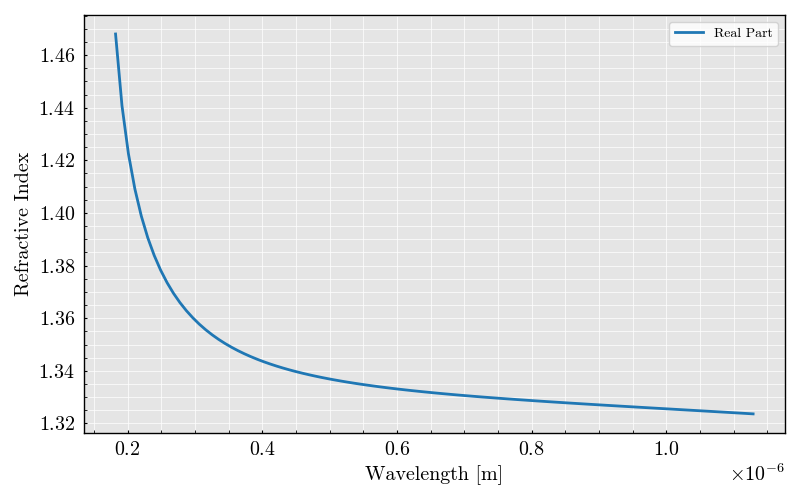
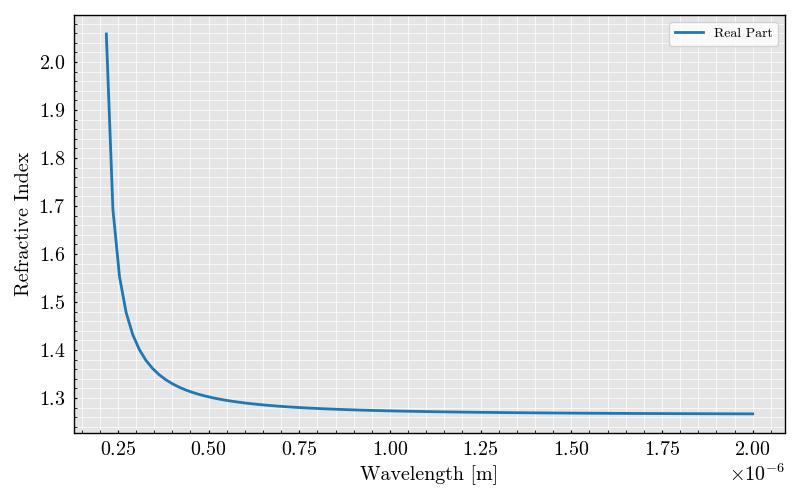
update docs to use gh-actions

diff --git a/docs/source/gallery/create_tabulated_file.py b/docs/source/gallery/create_tabulated_file.py
@@ -22,7 +22,7 @@ tabulated_data = [
 # Define the file properties
 filename = 'example_tabulated'
 reference = "Example Reference for Tabulated Data"
-comments = "This file contains sample tabulated data for demonstration purposes."
+comments = "This file contains sample tabulated data for demonstration purposes. "
 
 # Call the function to create the file
 create_tabulated_file(
@@ -34,6 +34,6 @@ create_tabulated_file(
 
 print(f"Tabulated YAML file {filename}.yml has been created in {tabulated_data_path}")
 
-m = TabulatedMaterial('example_tabulated')
+m = TabulatedMaterial(filename)
 
 m.plot()

diff --git a/docs/source/gallery/create_sellmeier_file.py b/docs/source/gallery/create_sellmeier_file.py
@@ -22,11 +22,11 @@ create_sellmeier_file(
     formula_type=formula_type,
     wavelength_range=(0.2, 2.0),
     reference="Sample Reference",
-    comments="This is a sample Sellmeier file created for demonstration purposes."
+    comments="This is a sample Sellmeier file created for demonstration purposes. "
 )
 
 print(f"Sellmeier YAML file {filename}.yml has been created in {sellmeier_data_path}")
 
-m = SellmeierMaterial('example_download')
+m = SellmeierMaterial(filename)
 
 m.plot()

diff --git a/docs/source/gallery/plot_silica.py b/docs/source/gallery/plot_silica.py
@@ -7,10 +7,10 @@ This module demonstrates the usage of the PyOptik library to calculate and plot 
 """
 
 import numpy
-from PyOptik import UsualMaterial
+from PyOptik import Material
 
 # Initialize the material with the Sellmeier model
-material = UsualMaterial.fused_silica
+material = Material.fused_silica
 
 # Calculate refractive index at specific wavelengths
 RI = material.compute_refractive_index(wavelength=[1310e-9, 1550e-9])

diff --git a/docs/source/gallery/plot_bk7.py b/docs/source/gallery/plot_bk7.py
@@ -7,10 +7,10 @@ This module demonstrates the usage of the PyOptik library to calculate and plot 
 """
 
 import numpy
-from PyOptik import UsualMaterial
+from PyOptik import Material
 
 # Initialize the material with the Sellmeier model
-material = UsualMaterial.get('BK7')
+material = Material.BK7
 
 # Calculate refractive index at specific wavelengths
 RI = material.compute_refractive_index(wavelength=[1310e-9, 1550e-9])

diff --git a/docs/source/gallery/plot_sf5.py b/docs/source/gallery/plot_sf5.py
@@ -7,10 +7,10 @@ This module demonstrates the usage of the PyOptik library to calculate and plot 
 """
 
 import numpy
-from PyOptik import UsualMaterial
+from PyOptik import Material
 
 # Initialize the material with the Sellmeier model
-material = UsualMaterial.get('SF5')
+material = Material.SF5
 
 # Calculate refractive index at specific wavelengths
 RI = material.compute_refractive_index(wavelength=[1310e-9, 1550e-9])

diff --git a/docs/source/gallery/plot_silver.py b/docs/source/gallery/plot_silver.py
@@ -7,10 +7,10 @@ This module demonstrates the usage of the PyOptik library to calculate and plot 
 """
 
 import numpy
-from PyOptik import UsualMaterial
+from PyOptik import Material
 
 # Initialize the material with the Sellmeier model
-material = UsualMaterial.silver
+material = Material.silver
 
 # Calculate refractive index at specific wavelengths
 RI = material.compute_refractive_index(wavelength=[1310e-9, 1550e-9])

diff --git a/docs/source/gallery/plot_water.py b/docs/source/gallery/plot_water.py
@@ -7,10 +7,10 @@ This module demonstrates the usage of the PyOptik library to calculate and plot 
 """
 
 import numpy
-from PyOptik import UsualMaterial
+from PyOptik import Material
 
 # Initialize the material with the Sellmeier model
-material = UsualMaterial.water
+material = Material.water
 
 # Calculate refractive index at specific wavelengths
 RI = material.compute_refractive_index(wavelength=[800e-9, 900e-9])

diff --git a/docs/source/gallery/sg_execution_times.rst b/docs/source/gallery/sg_execution_times.rst
@@ -6,22 +6,22 @@
 
 Computation times
 =================
-**00:01.790** total execution time for **gallery** files:
+**00:00.849** total execution time for **gallery** files:
 
 +---------------------------------------------------------------------------------+-----------+--------+
-| :ref:`sphx_glr_gallery_download_yml_file.py` (``download_yml_file.py``)         | 00:00.867 | 0.0 MB |
+| :ref:`sphx_glr_gallery_create_sellmeier_file.py` (``create_sellmeier_file.py``) | 00:00.165 | 0.0 MB |
 +---------------------------------------------------------------------------------+-----------+--------+
-| :ref:`sphx_glr_gallery_plot_silver.py` (``plot_silver.py``)                     | 00:00.157 | 0.0 MB |
+| :ref:`sphx_glr_gallery_plot_silver.py` (``plot_silver.py``)                     | 00:00.142 | 0.0 MB |
 +---------------------------------------------------------------------------------+-----------+--------+
-| :ref:`sphx_glr_gallery_create_sellmeier_file.py` (``create_sellmeier_file.py``) | 00:00.146 | 0.0 MB |
+| :ref:`sphx_glr_gallery_create_tabulated_file.py` (``create_tabulated_file.py``) | 00:00.134 | 0.0 MB |
 +---------------------------------------------------------------------------------+-----------+--------+
-| :ref:`sphx_glr_gallery_create_tabulated_file.py` (``create_tabulated_file.py``) | 00:00.135 | 0.0 MB |
+| :ref:`sphx_glr_gallery_plot_water.py` (``plot_water.py``)                       | 00:00.114 | 0.0 MB |
 +---------------------------------------------------------------------------------+-----------+--------+
-| :ref:`sphx_glr_gallery_plot_water.py` (``plot_water.py``)                       | 00:00.131 | 0.0 MB |
+| :ref:`sphx_glr_gallery_plot_sf5.py` (``plot_sf5.py``)                           | 00:00.105 | 0.0 MB |
 +---------------------------------------------------------------------------------+-----------+--------+
-| :ref:`sphx_glr_gallery_plot_silica.py` (``plot_silica.py``)                     | 00:00.119 | 0.0 MB |
+| :ref:`sphx_glr_gallery_plot_bk7.py` (``plot_bk7.py``)                           | 00:00.098 | 0.0 MB |
 +---------------------------------------------------------------------------------+-----------+--------+
-| :ref:`sphx_glr_gallery_plot_bk7.py` (``plot_bk7.py``)                           | 00:00.118 | 0.0 MB |
+| :ref:`sphx_glr_gallery_plot_silica.py` (``plot_silica.py``)                     | 00:00.091 | 0.0 MB |
 +---------------------------------------------------------------------------------+-----------+--------+
-| :ref:`sphx_glr_gallery_plot_sf5.py` (``plot_sf5.py``)                           | 00:00.117 | 0.0 MB |
+| :ref:`sphx_glr_gallery_download_yml_file.py` (``download_yml_file.py``)         | 00:00.000 | 0.0 MB |
 +---------------------------------------------------------------------------------+-----------+--------+

diff --git a/docs/source/gallery/create_sellmeier_file.rst b/docs/source/gallery/create_sellmeier_file.rst
@@ -40,6 +40,10 @@ This example demonstrates how to create a custom Sellmeier YAML file using the
 
     Sellmeier data saved to /Users/martinpdes/Desktop/GitProject/PyOptik/PyOptik/data/sellmeier/example_sellmeier.yml
     Sellmeier YAML file example_sellmeier.yml has been created in /Users/martinpdes/Desktop/GitProject/PyOptik/PyOptik/data/sellmeier
+    /Users/martinpdes/Desktop/GitProject/PyOptik/PyOptik/sellmeier_class.py:70: UserWarning: Wavelength 0.19999999999999998 µm is outside the allowable range of 0.2 µm to 2.0 µm. [example_sellmeier]
+      warnings.warn(f"Wavelength {lambda_um} µm is outside the allowable range of {min_value} µm to {max_value} µm. [{self.filename}]")
+    /Users/martinpdes/Desktop/GitProject/PyOptik/PyOptik/sellmeier_class.py:104: RuntimeWarning: invalid value encountered in sqrt
+      n = numpy.sqrt(n_squared)
 
 
 
@@ -67,19 +71,19 @@ This example demonstrates how to create a custom Sellmeier YAML file using the
         formula_type=formula_type,
         wavelength_range=(0.2, 2.0),
         reference="Sample Reference",
-        comments="This is a sample Sellmeier file created for demonstration purposes."
+        comments="This is a sample Sellmeier file created for demonstration purposes. "
     )
 
     print(f"Sellmeier YAML file {filename}.yml has been created in {sellmeier_data_path}")
 
-    m = SellmeierMaterial('example_download')
+    m = SellmeierMaterial(filename)
 
     m.plot()
 
 
 .. rst-class:: sphx-glr-timing
 
-   **Total running time of the script:** (0 minutes 0.146 seconds)
+   **Total running time of the script:** (0 minutes 0.165 seconds)
 
 
 .. _sphx_glr_download_gallery_create_sellmeier_file.py:

diff --git a/docs/source/gallery/create_tabulated_file.rst b/docs/source/gallery/create_tabulated_file.rst
@@ -67,7 +67,7 @@ This example demonstrates how to create a custom YAML file containing tabulated
     # Define the file properties
     filename = 'example_tabulated'
     reference = "Example Reference for Tabulated Data"
-    comments = "This file contains sample tabulated data for demonstration purposes."
+    comments = "This file contains sample tabulated data for demonstration purposes. "
 
     # Call the function to create the file
     create_tabulated_file(
@@ -79,14 +79,14 @@ This example demonstrates how to create a custom YAML file containing tabulated
 
     print(f"Tabulated YAML file {filename}.yml has been created in {tabulated_data_path}")
 
-    m = TabulatedMaterial('example_tabulated')
+    m = TabulatedMaterial(filename)
 
     m.plot()
 
 
 .. rst-class:: sphx-glr-timing
 
-   **Total running time of the script:** (0 minutes 0.135 seconds)
+   **Total running time of the script:** (0 minutes 0.134 seconds)
 
 
 .. _sphx_glr_download_gallery_create_tabulated_file.py:

diff --git a/docs/source/gallery/plot_silica.rst b/docs/source/gallery/plot_silica.rst
@@ -40,10 +40,10 @@ This module demonstrates the usage of the PyOptik library to calculate and plot 
 
 
     import numpy
-    from PyOptik import UsualMaterial
+    from PyOptik import Material
 
     # Initialize the material with the Sellmeier model
-    material = UsualMaterial.fused_silica
+    material = Material.fused_silica
 
     # Calculate refractive index at specific wavelengths
     RI = material.compute_refractive_index(wavelength=[1310e-9, 1550e-9])
@@ -56,7 +56,7 @@ This module demonstrates the usage of the PyOptik library to calculate and plot 
 
 .. rst-class:: sphx-glr-timing
 
-   **Total running time of the script:** (0 minutes 0.119 seconds)
+   **Total running time of the script:** (0 minutes 0.091 seconds)
 
 
 .. _sphx_glr_download_gallery_plot_silica.py:

diff --git a/docs/source/gallery/plot_silver.rst b/docs/source/gallery/plot_silver.rst
@@ -40,10 +40,10 @@ This module demonstrates the usage of the PyOptik library to calculate and plot 
 
 
     import numpy
-    from PyOptik import UsualMaterial
+    from PyOptik import Material
 
     # Initialize the material with the Sellmeier model
-    material = UsualMaterial.silver
+    material = Material.silver
 
     # Calculate refractive index at specific wavelengths
     RI = material.compute_refractive_index(wavelength=[1310e-9, 1550e-9])
@@ -57,7 +57,7 @@ This module demonstrates the usage of the PyOptik library to calculate and plot 
 
 .. rst-class:: sphx-glr-timing
 
-   **Total running time of the script:** (0 minutes 0.157 seconds)
+   **Total running time of the script:** (0 minutes 0.142 seconds)
 
 
 .. _sphx_glr_download_gallery_plot_silver.py:
